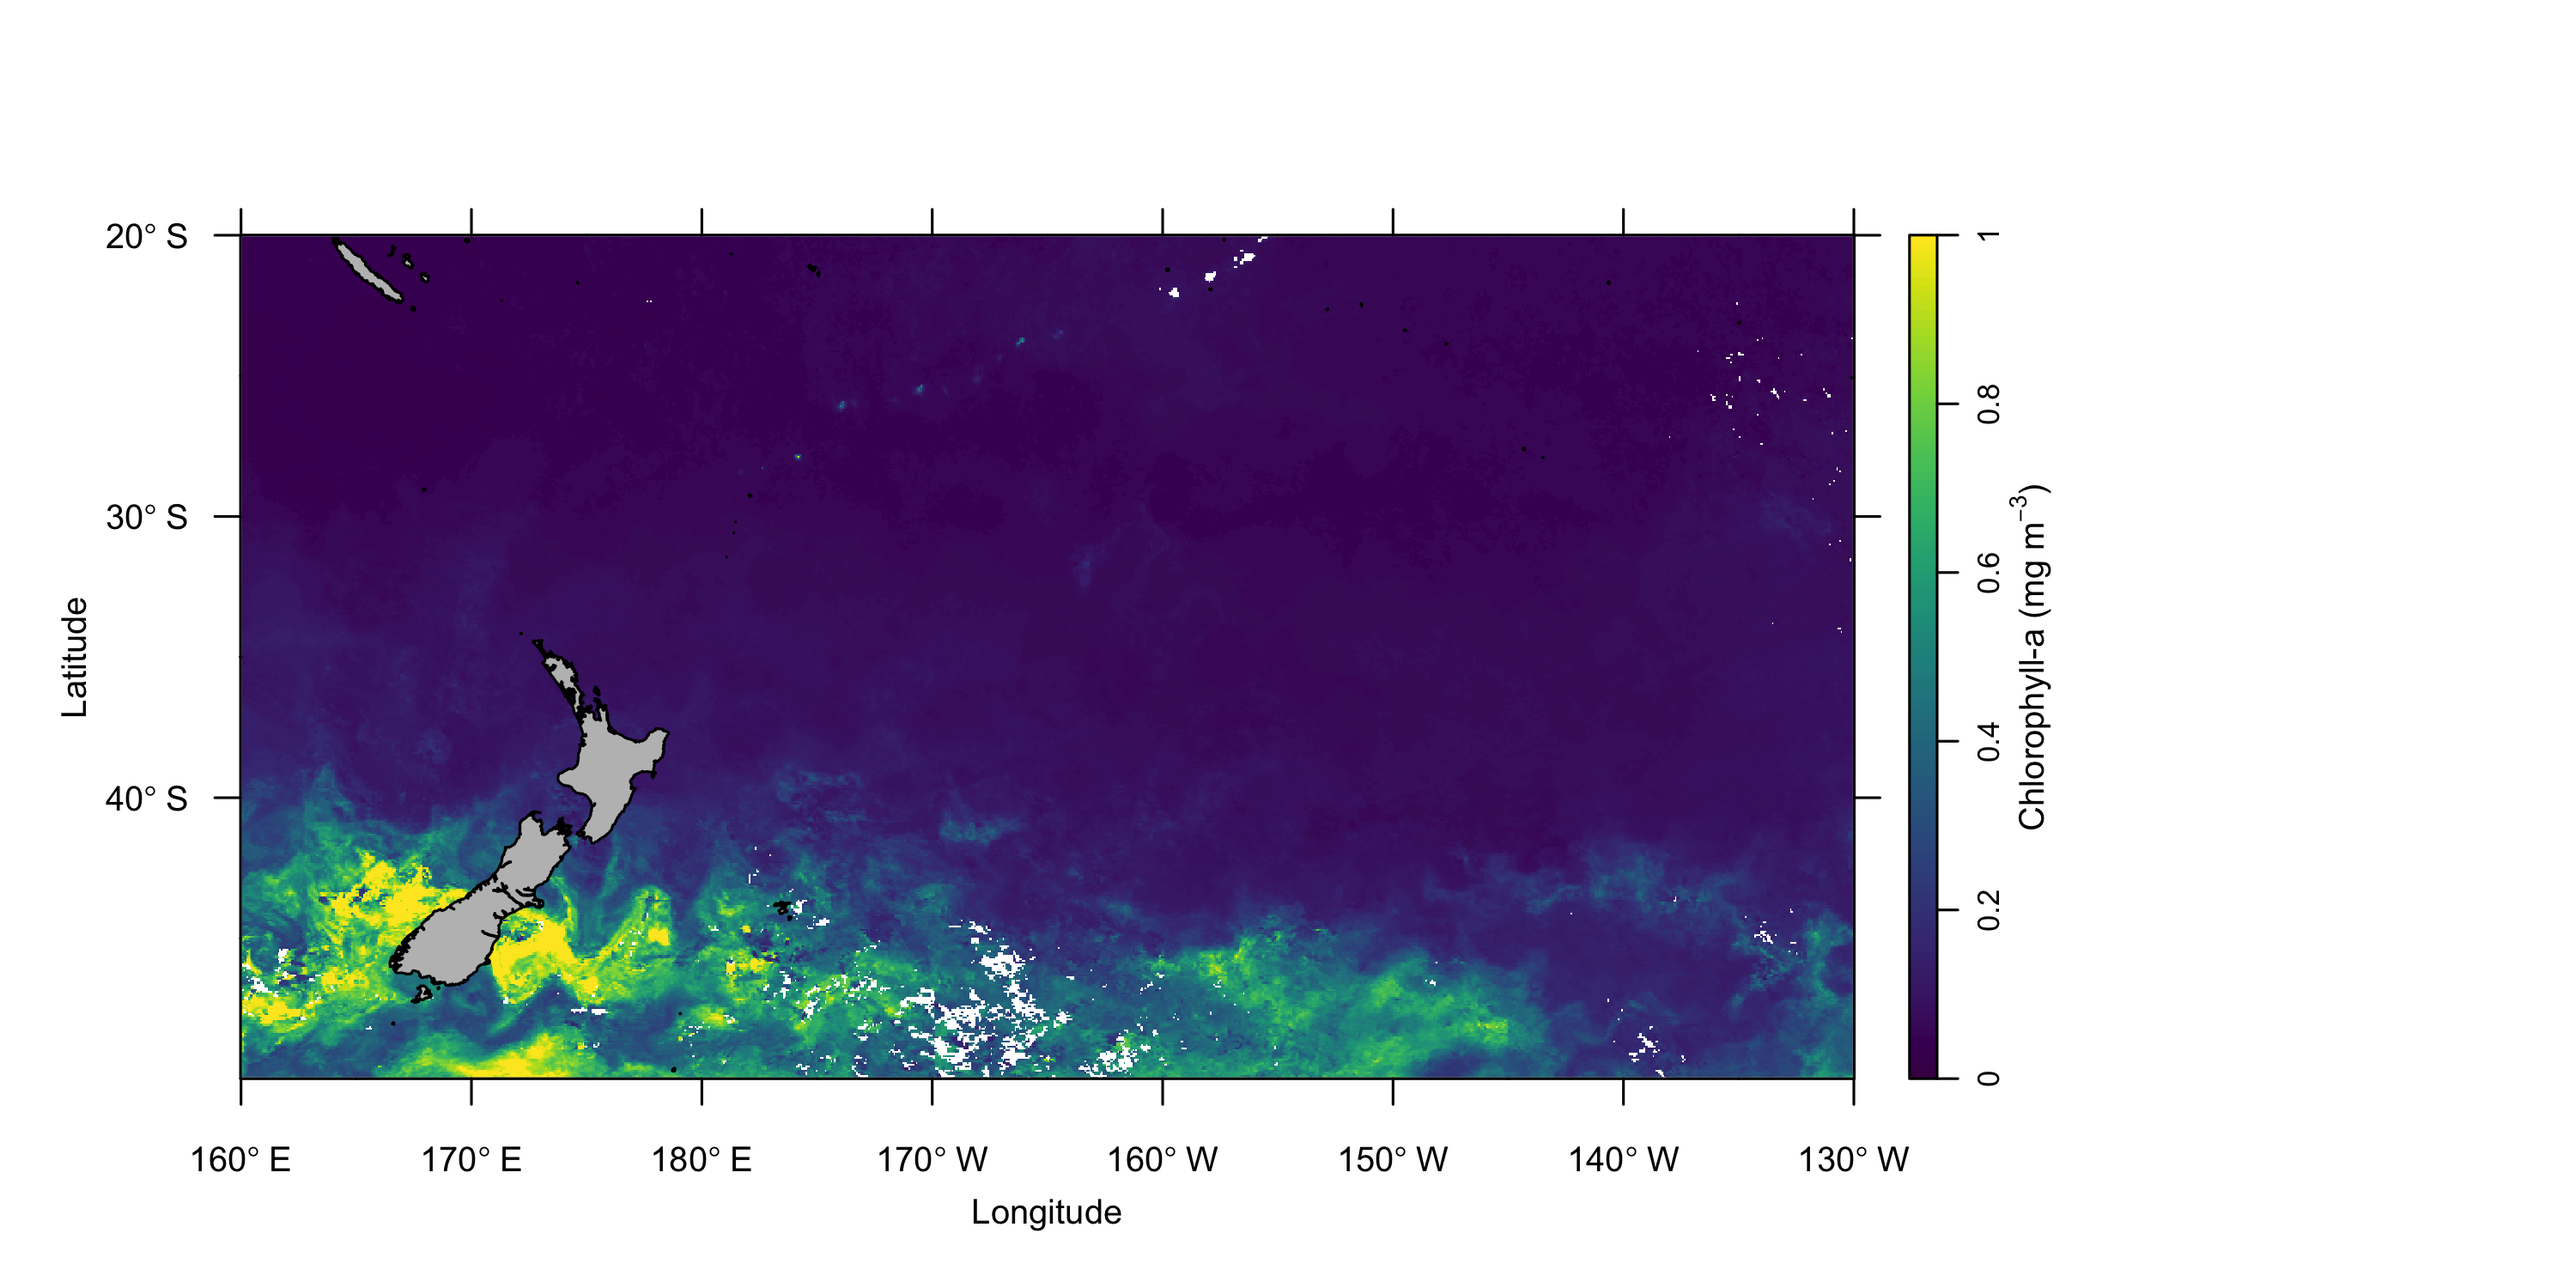
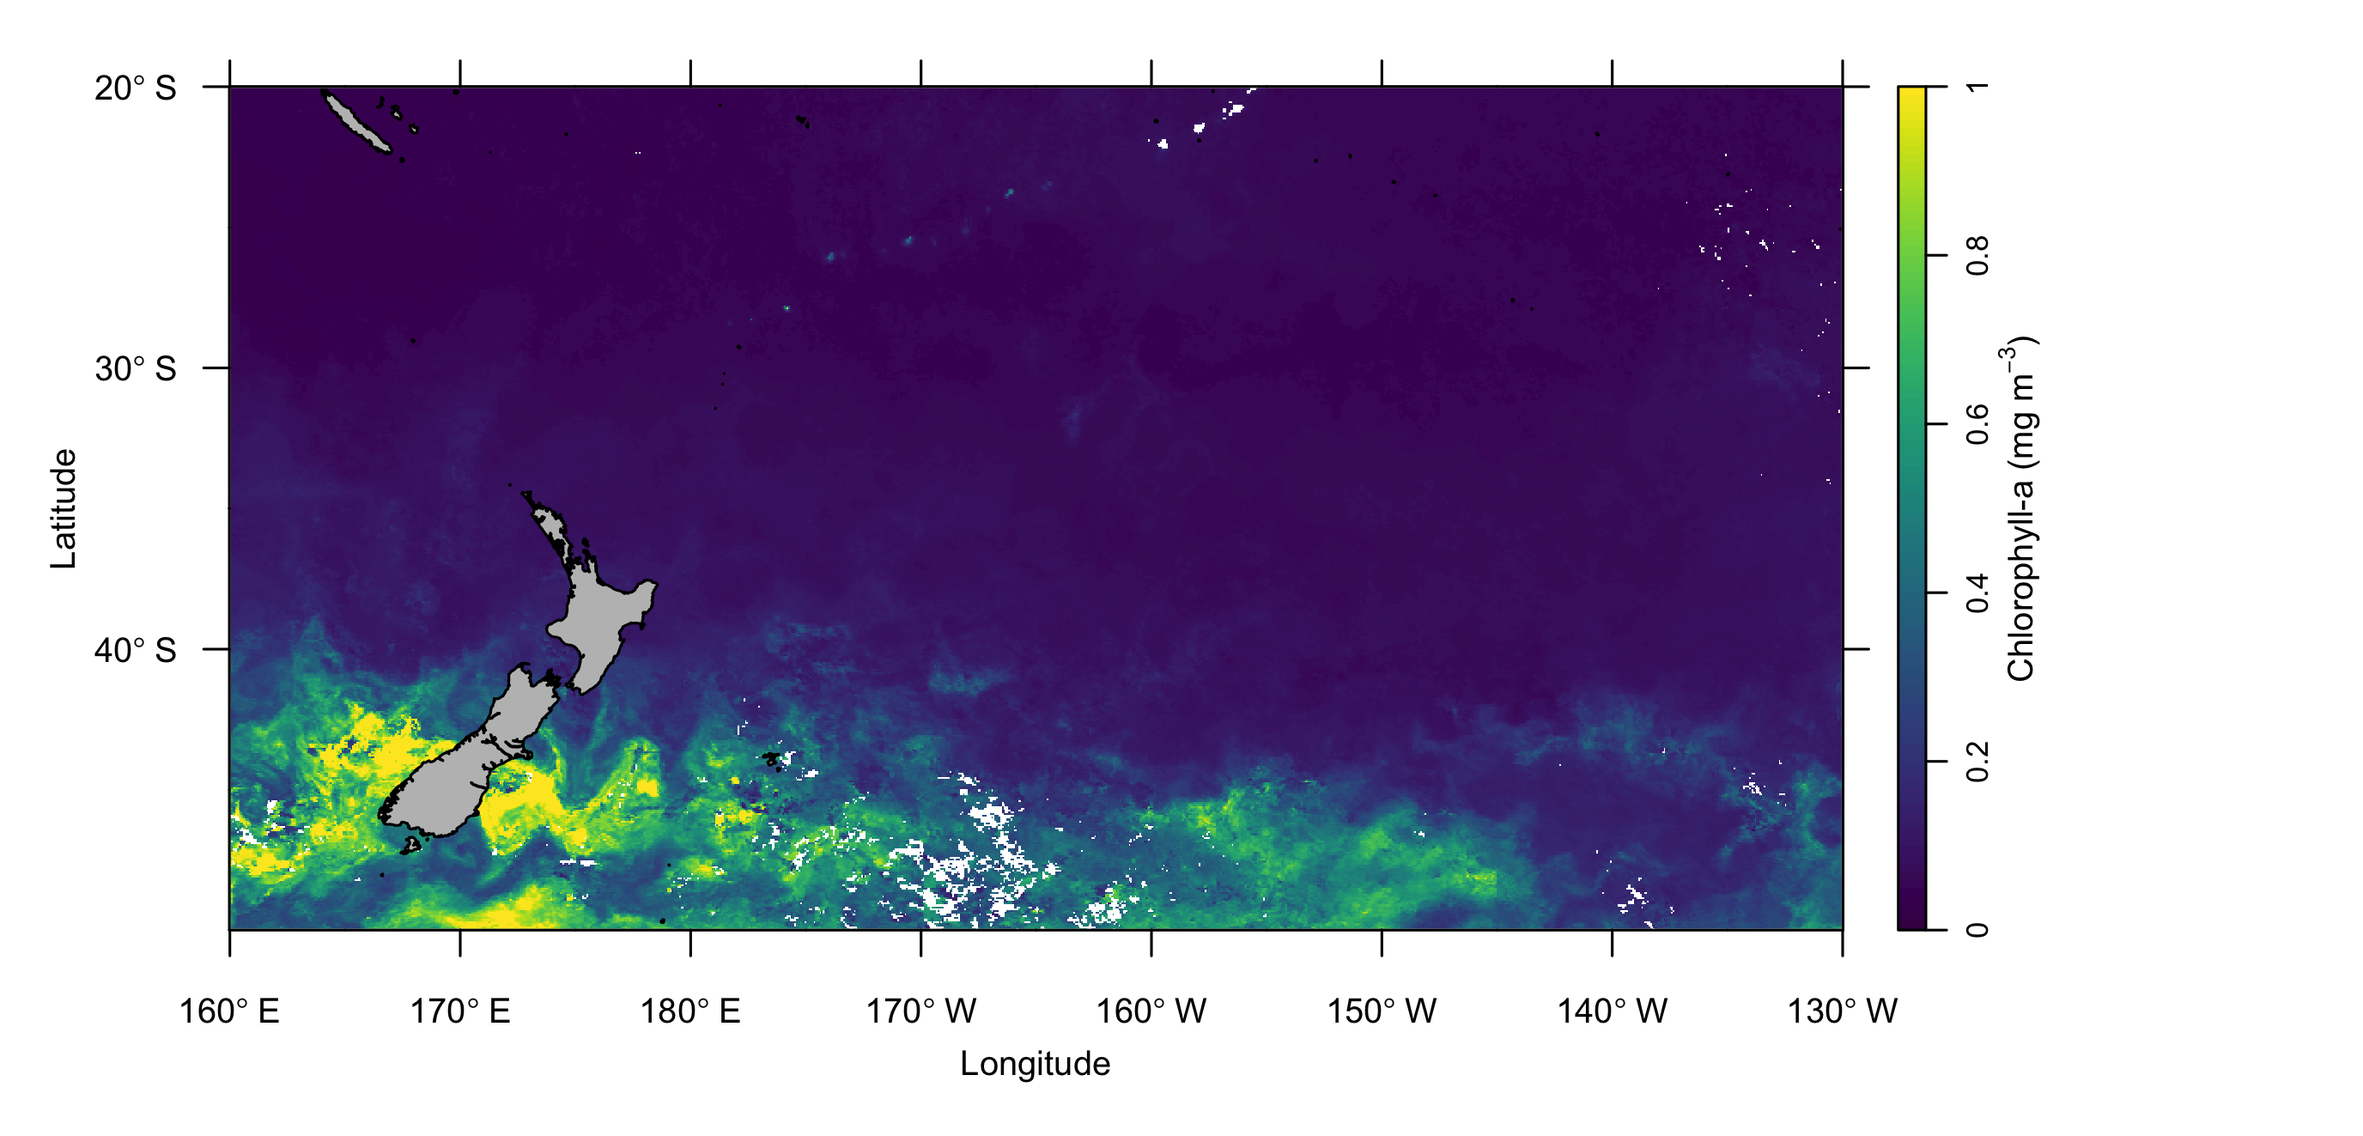
july11a

diff --git a/oceanmap.html b/oceanmap.html
@@ -302,7 +302,7 @@ chl.dat.raster = nc2raster(chl.dat, &quot;chlor_a&quot;, lonname=&quot;lon&quot;
 <p>The chlorophyll-a map can now be generated using the v function in the oceanmap package. Note that coastlines are automatically included in the oceanmap package, which uses coastline data from <a href="https://www.ngdc.noaa.gov/mgg/shorelines/gshhs.html">GSHHS</a>. Full list of arguments can be viewed using ?v. Arguments used below: <em>cbpos</em>: the position of colour bar, <em>pal</em>: palette of colour bar, <em>zlim</em>: scale limits for colour bar, <em>cb.xlab</em>: colour bar label, <em>bwd</em>: border width, <em>grid</em>: optional grid from lon/lat tickmarks, <em>replace.na</em>: replaces na raster values with zero (not recommended), <em>Save</em>: whether to save the plot (true or false), <em>plotname</em>: plotname if saving plot (do not include file extension), <em>fileformat</em>: set file format (default “png”), <em>width</em>: plot width (inches), <em>height</em>: plot height (inches). The plot will be saved to your working directory.</p>
 <pre class="r"><code>v(chl.360.crop, cbpos = &quot;r&quot;, pal = vpal, zlim = c(0,1), cb.xlab = expression(&quot;Chlorophyll-a (mg m&quot;^-3*&quot;)&quot;), bwd = 0.01, grid = F, replace.na = F, Save = T, plotname = &quot;sp_rmd_plot&quot;, fileformat = &quot;png&quot;, width = 10, height = 5)</code></pre>
 <center>
-<div style="width:1000px; height=500px">
+<div style="width:750px; height=375px">
 <div class="figure">
 <img src="sp_rmd_plot.png" />
 
